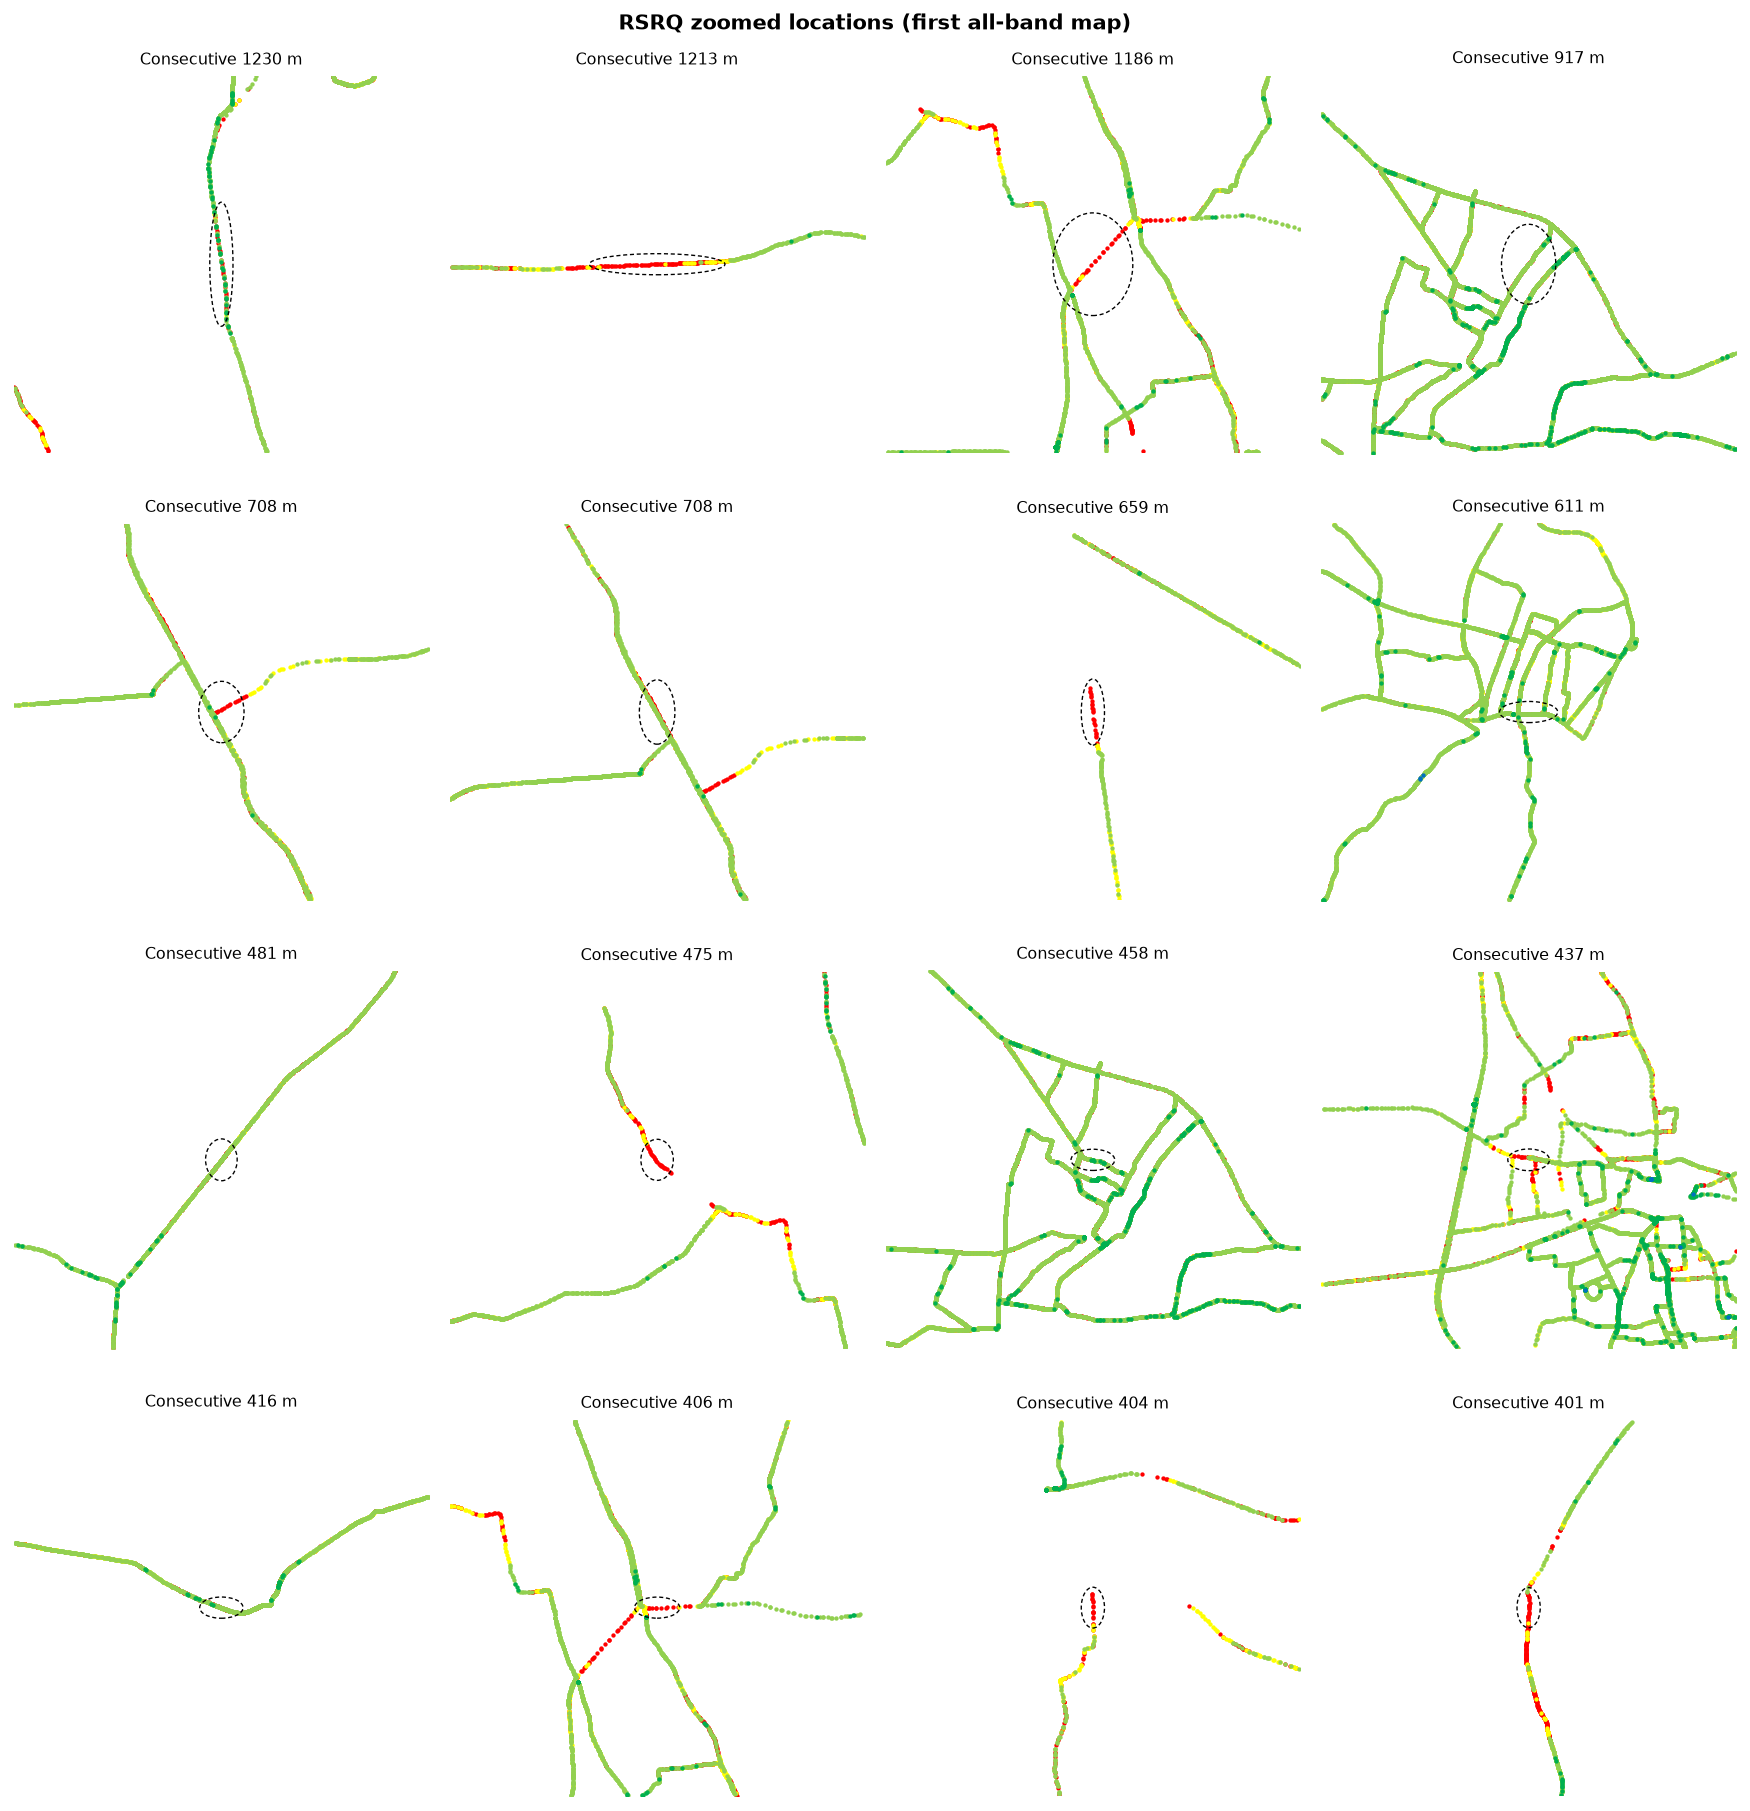
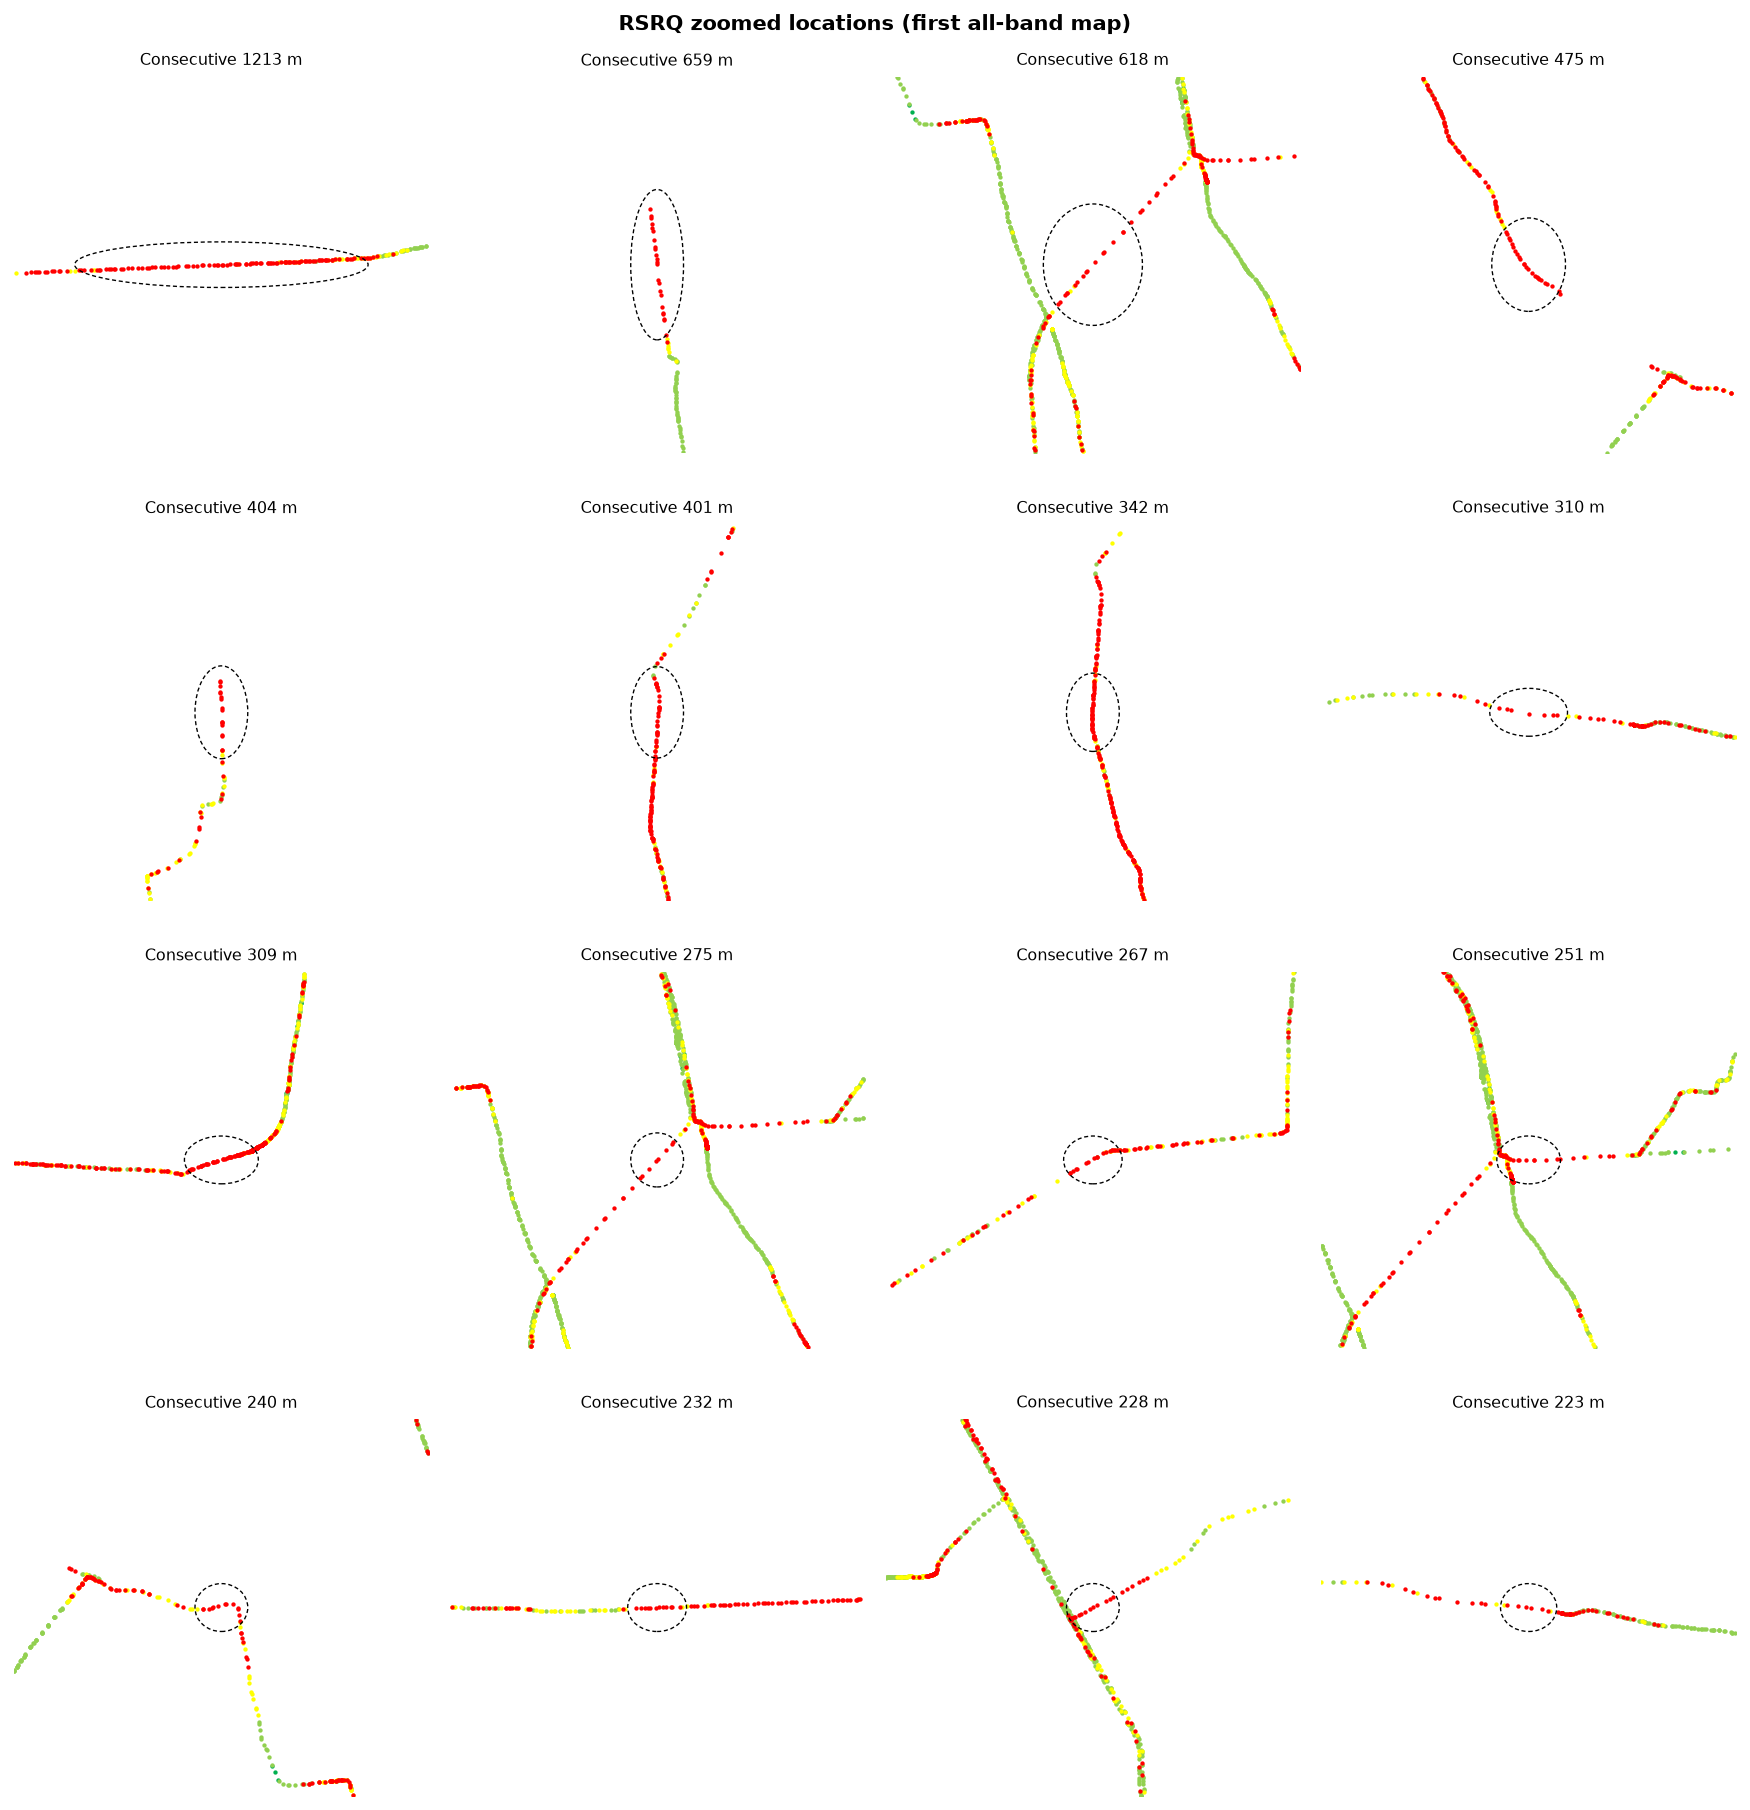
Rebuild v1.24 Bad Spot maps with magenta/red-only circles.
Drop the city-grid ovals that boxed mixed blue/green streets. Consecutive
poor stretches are now compact, zoomed, and drawn with poor colours on top
so only below-threshold coverage is circled.

diff --git a/merge_and_analyze.py b/merge_and_analyze.py
@@ -529,8 +529,8 @@ BAD_SPOT_DISCRETE_MIN_POOR = 60
 BAD_SPOT_DISCRETE_MAX_SPAN_KM = 3.2
 BAD_SPOT_MAP_POOR_SHARE = 0.75  # circled view must be mostly poor (pink/red for RSRP)
 BAD_SPOT_CONSEC_MAX_SPAN_KM = 2.0  # do not wrap a winding city route in one oval
-BAD_SPOT_ZOOM_PAD_KM = 1.3
-BAD_SPOT_ZOOM_MIN_KM = 2.4
+BAD_SPOT_ZOOM_PAD_KM = 0.55
+BAD_SPOT_ZOOM_MIN_KM = 1.1
 BAD_SPOT_ZOOM_COLS = 4
 BAD_SPOT_MAX_ZOOMS = 16
 BAD_SPOT_MAX = BAD_SPOT_MAX_CONSEC + BAD_SPOT_MAX_DISCRETE
